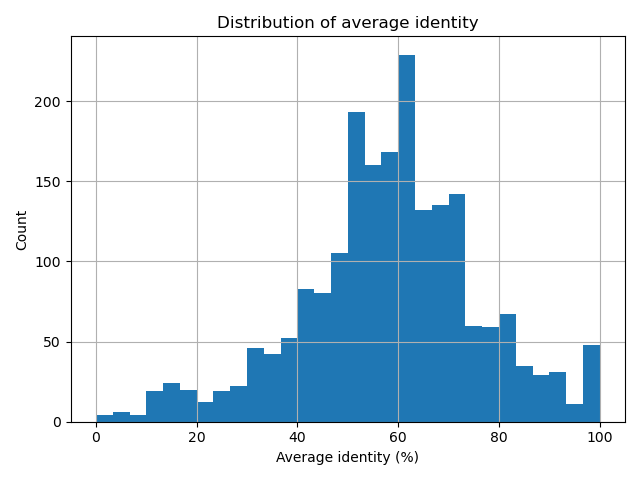
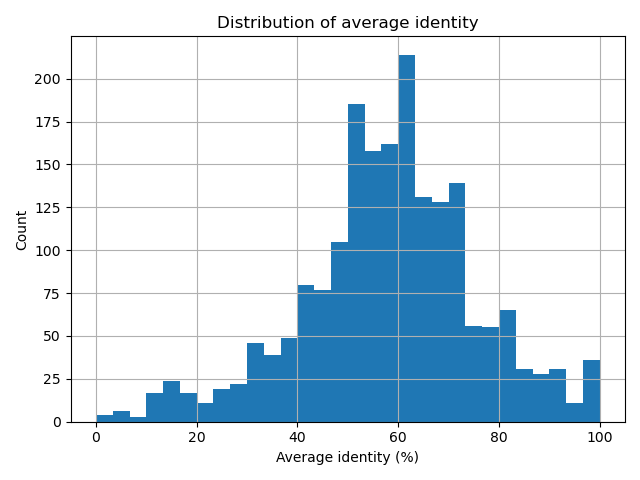
Update all changes

diff --git a/0003_hairpinConservation/script/0021_sequence_conservation.py b/0003_hairpinConservation/script/0021_sequence_conservation.py
@@ -8,7 +8,7 @@ import matplotlib.pyplot as plt
 
 # ----------------------------------------------------------------
 # CONFIGURE THIS: wherever your .txt files live
-stats_dir = "/Users/alejandraescos/Documents/github/SCR/0003_hairpinConservation/data/0022_fa_chunks_60nt_stats"
+stats_dir = "/Users/alejandraescos/Documents/github/SCR/0003_hairpinConservation/data/0021_fa_chunks_60nt_stats"
 pattern   = os.path.join(stats_dir, "*.txt")
 # ----------------------------------------------------------------
 
@@ -38,6 +38,10 @@ print("number of records parsed:", len(df))
 print("columns:", df.columns.tolist())
 print(df.head())
 
+# ** NEW: keep only the 60-nt windows **
+df60 = df[df["aln_length"] == 60].copy()
+print("only 60-nt windows:", len(df60))
+
 # 3) plot distribution of alignment lengths
 plt.figure()
 df["aln_length"].hist(bins=30)
@@ -49,7 +53,7 @@ plt.show()
 
 # 4) plot distribution of average identity
 plt.figure()
-df["avg_identity"].hist(bins=30)
+df60["avg_identity"].hist(bins=30)
 plt.xlabel("Average identity (%)")
 plt.ylabel("Count")
 plt.title("Distribution of average identity")
@@ -57,11 +61,11 @@ plt.tight_layout()
 plt.show()
 
 # 5) pull out the most and least conserved by quantile
-high_q = df["avg_identity"].quantile(0.9)
-low_q  = df["avg_identity"].quantile(0.1)
+high_q = df60["avg_identity"].quantile(0.9)
+low_q  = df60["avg_identity"].quantile(0.1)
 
-most_conserved = df[df["avg_identity"] >= high_q]
-least_conserved = df[df["avg_identity"] <= low_q]
+most_conserved = df60[df60["avg_identity"] >= high_q]
+least_conserved = df60[df60["avg_identity"] <= low_q]
 
 out_dir = "/Users/alejandraescos/Documents/github/SCR/0003_hairpinConservation/results_figures"
 most_conserved.to_csv(f"{out_dir}/most_conserved_top10pct.csv", index=False)

diff --git a/0003_hairpinConservation/analysis/0016_lab_book_hairpinConservation.md b/0003_hairpinConservation/analysis/0016_lab_book_hairpinConservation.md
@@ -1,0 +1,54 @@
+Basic structure:
+1.  DATA-ORIGIN:
+2.  DATA-DATE:
+3.  DATA-VERSION:
+4.  DOWLOADED-SCRIPT
+5.  SOFTWARE-VERSION:
+6.  METHODS/WORKFLOWS
+
+drifter,vvl = FBgn0086680
+CG6282 = FBgn0035914
+
+### +/- 33 from the stop codon, depending on strand location to the index of location
+
+1.  DATA-ORIGIN:
+path(/Users/alejandraescos/Documents/github/SCR/0003_hairpinConservation)
+
+2.  DATA-DATE:
+20250521
+
+3.  DATA-VERSION:
+0015_dmle_selected_three_prime_utr.bed
+
+4.  DOWLOADED-SCRIPT:
+
+Then I extended these nucleotides 33 before the start codon taking into accoun if the 3'UTR is in the + strand or if it is in the - strand.
+0016_dmle_three_prime_utr_extend.py:
+```
+# Input and output file paths
+input_bed = "/Users/alejandraescos/Documents/github/SCR/0003_hairpinConservation/data/0015_dmle_selected_three_prime_utr.bed"
+output_bed = "/Users/alejandraescos/Documents/github/SCR/0003_hairpinConservation/data/0016_dmle_selected_three_prime_utr_extend.bed"
+
+# Process the BED file
+with open(input_bed, "r") as infile, open(output_bed, "w") as outfile:
+    for line in infile:
+        if line.strip() == "":
+            continue  # Skip empty lines
+
+        fields = line.strip().split("\t")
+        chrom, start, end, name, score, strand = fields
+
+        start = int(start)
+        end = int(end)
+
+        if strand == "+":
+            start = max(0, start - 33)  # Ensure start doesn't go below 0
+        elif strand == "-":
+            end = end + 33
+
+        # Write modified line
+        outfile.write(f"{chrom}\t{start}\t{end}\t{name}\t{score}\t{strand}\n")
+```
+
+5.  SOFTWARE-VERSION:
+python 3.12.4

diff --git a/0003_hairpinConservation/analysis/0015_lab_book_hairpinConservation.md b/0003_hairpinConservation/analysis/0015_lab_book_hairpinConservation.md
@@ -23,7 +23,8 @@ path(/Users/alejandraescos/Documents/github/SCR/0003_hairpinConservation)
 
 4.  DOWLOADED-SCRIPT:
 
-``` 0015_3utr_conserved_selection.py
+0015_3utr_conserved_selection.py
+``` 
 import gffutils
 import pandas as pd
 
@@ -84,33 +85,5 @@ with open(output_bed, 'w') as bedout:
         bedout.write(data['line'] + "\n")
 ```
 
-Then I extended these nucleotides 33 before the start codon taking into accoun if the 3'UTR is in the + strand or if it is in the - strand.
-
-```0016_dmle_three_prime_utr_extend.py
-# Input and output file paths
-input_bed = "/Users/alejandraescos/Documents/github/SCR/0003_hairpinConservation/data/0015_dmle_selected_three_prime_utr.bed"
-output_bed = "/Users/alejandraescos/Documents/github/SCR/0003_hairpinConservation/data/0016_dmle_selected_three_prime_utr_extend.bed"
-
-# Process the BED file
-with open(input_bed, "r") as infile, open(output_bed, "w") as outfile:
-    for line in infile:
-        if line.strip() == "":
-            continue  # Skip empty lines
-
-        fields = line.strip().split("\t")
-        chrom, start, end, name, score, strand = fields
-
-        start = int(start)
-        end = int(end)
-
-        if strand == "+":
-            start = max(0, start - 33)  # Ensure start doesn't go below 0
-        elif strand == "-":
-            end = end + 33
-
-        # Write modified line
-        outfile.write(f"{chrom}\t{start}\t{end}\t{name}\t{score}\t{strand}\n")
-```
-
 5.  SOFTWARE-VERSION:
-
+python 3.12.4

diff --git a/0003_hairpinConservation/analysis/0020_lab_book_hairpinConservation.md b/0003_hairpinConservation/analysis/0020_lab_book_hairpinConservation.md
@@ -17,17 +17,17 @@ CG6282 = FBgn0035914
 path(/Users/alejandraescos/Documents/github/SCR/0002_phylogenetics/data)
 
 2.  DATA-DATE:
-20250512
+20250527
 
 3.  DATA-VERSION:
-SUPERMATRIX.fasta
+0019_fa_chunks_trimmed
 
 4.  DOWLOADED-SCRIPT:
 
 ```
 python3 /Users/alejandraescos/Documents/github/SCR/0003_hairpinConservation/script/0020_extract_hairpin_windows.py \
-  -i /Users/alejandraescos/Documents/github/SCR/0003_hairpinConservation/data/fa_chunks_trimmed \
-  -o /Users/alejandraescos/Documents/github/SCR/0003_hairpinConservation/data/fa_chunks_trimmed_by_stop \
+  -i /Users/alejandraescos/Documents/github/SCR/0003_hairpinConservation/data/0019_fa_chunks_trimmed \
+  -o /Users/alejandraescos/Documents/github/SCR/0003_hairpinConservation/data/0020_fa_chunks_trimmed_by_stop \
   -r 0005_Drosophila_melanogaster_dna \
   -L 60
 ```
@@ -189,5 +189,5 @@ if __name__=='__main__':
     main()
 ```
 
-
 5.  SOFTWARE-VERSION:
+python 3.12.4

diff --git a/0003_hairpinConservation/analysis/0019_lab_book_hairpinConservation.md b/0003_hairpinConservation/analysis/0019_lab_book_hairpinConservation.md
@@ -21,7 +21,7 @@ CG6282 = FBgn0035914
 path(/Users/alejandraescos/Documents/github/SCR/0003_hairpinConservation)
 
 2.  DATA-DATE:
-20250522
+20250526
 
 3.  DATA-VERSION:
 0018_fa_chunks folder
@@ -31,7 +31,7 @@ path(/Users/alejandraescos/Documents/github/SCR/0003_hairpinConservation)
 ```
 python3 "/Users/alejandraescos/Documents/github/SCR/0003_hairpinConservation/script/0019_presto.py" \
   -i "/Users/alejandraescos/Documents/github/SCR/0003_hairpinConservation/data/0018_fa_chunks" \
-  -o "/Users/alejandraescos/Documents/github/SCR/0003_hairpinConservation/data/fa_chunks_trimmed" \
+  -o "/Users/alejandraescos/Documents/github/SCR/0003_hairpinConservation/data/0019_fa_chunks_trimmed" \
   -l 32 \
   -e .fa
 ```
@@ -172,4 +172,4 @@ if __name__ == '__main__':
 ```
 
 5.  SOFTWARE-VERSION:
-
+python 3.12.4

diff --git a/0003_hairpinConservation/analysis/0021_lab_book_hairpinConservation.md b/0003_hairpinConservation/analysis/0021_lab_book_hairpinConservation.md
@@ -15,17 +15,17 @@ CG6282 = FBgn0035914
 path(/Users/alejandraescos/Documents/github/SCR/0003_hairpinConservation)
 
 2.  DATA-DATE:
-20250512
+20250527
 
 3.  DATA-VERSION:
-SUPERMATRIX.fasta
+0020_fa_chunks_trimmed_by_stop
 
 4.  DOWLOADED-SCRIPT:
 
 Clean up duplicate Stockholm headers so downstream tools (e.g. esl-alistat) won’t complain.
 
 ```
-cd /Users/alejandraescos/Documents/github/SCR/0003_hairpinConservation/data/fa_chunks_trimmed_by_stop
+cd /Users/alejandraescos/Documents/github/SCR/0003_hairpinConservation/data/0020_fa_chunks_trimmed_by_stop
 mkdir -p 0022_fa_chunks_60nt_stats
 
 for f in *.sto; do

diff --git a/0003_hairpinConservation/analysis/0017_lab_book_hairpinConservation.md b/0003_hairpinConservation/analysis/0017_lab_book_hairpinConservation.md
@@ -9,17 +9,17 @@ Basic structure:
 drifter,vvl = FBgn0086680
 CG6282 = FBgn0035914
 
-### Obtain maf_chunks
+### Obtain maf_chunks from HAL file
 
 
 1.  DATA-ORIGIN:
 path(/Users/alejandraescos/Documents/github/SCR/0003_hairpinConservation)
 
 2.  DATA-DATE:
-20250521
+20250526
 
 3.  DATA-VERSION:
-
+0016_dmle_selected_three_prime_utr_extend.bed
 
 4.  DOWLOADED-SCRIPT:
 

diff --git a/0003_hairpinConservation/analysis/0018_lab_book_hairpinConservation.md b/0003_hairpinConservation/analysis/0018_lab_book_hairpinConservation.md
@@ -16,10 +16,10 @@ CG6282 = FBgn0035914
 path(/Users/alejandraescos/Documents/github/SCR/0003_hairpinConservation)
 
 2.  DATA-DATE:
-20250521
+20250526
 
 3.  DATA-VERSION:
-
+0016_dmle_selected_three_prime_utr_extend.bed
 
 4.  DOWLOADED-SCRIPT:
 
@@ -113,4 +113,4 @@ for maf_file, strand in maf_strand.items():
 ```
 
 5.  SOFTWARE-VERSION:
-
+python 3.12.4
